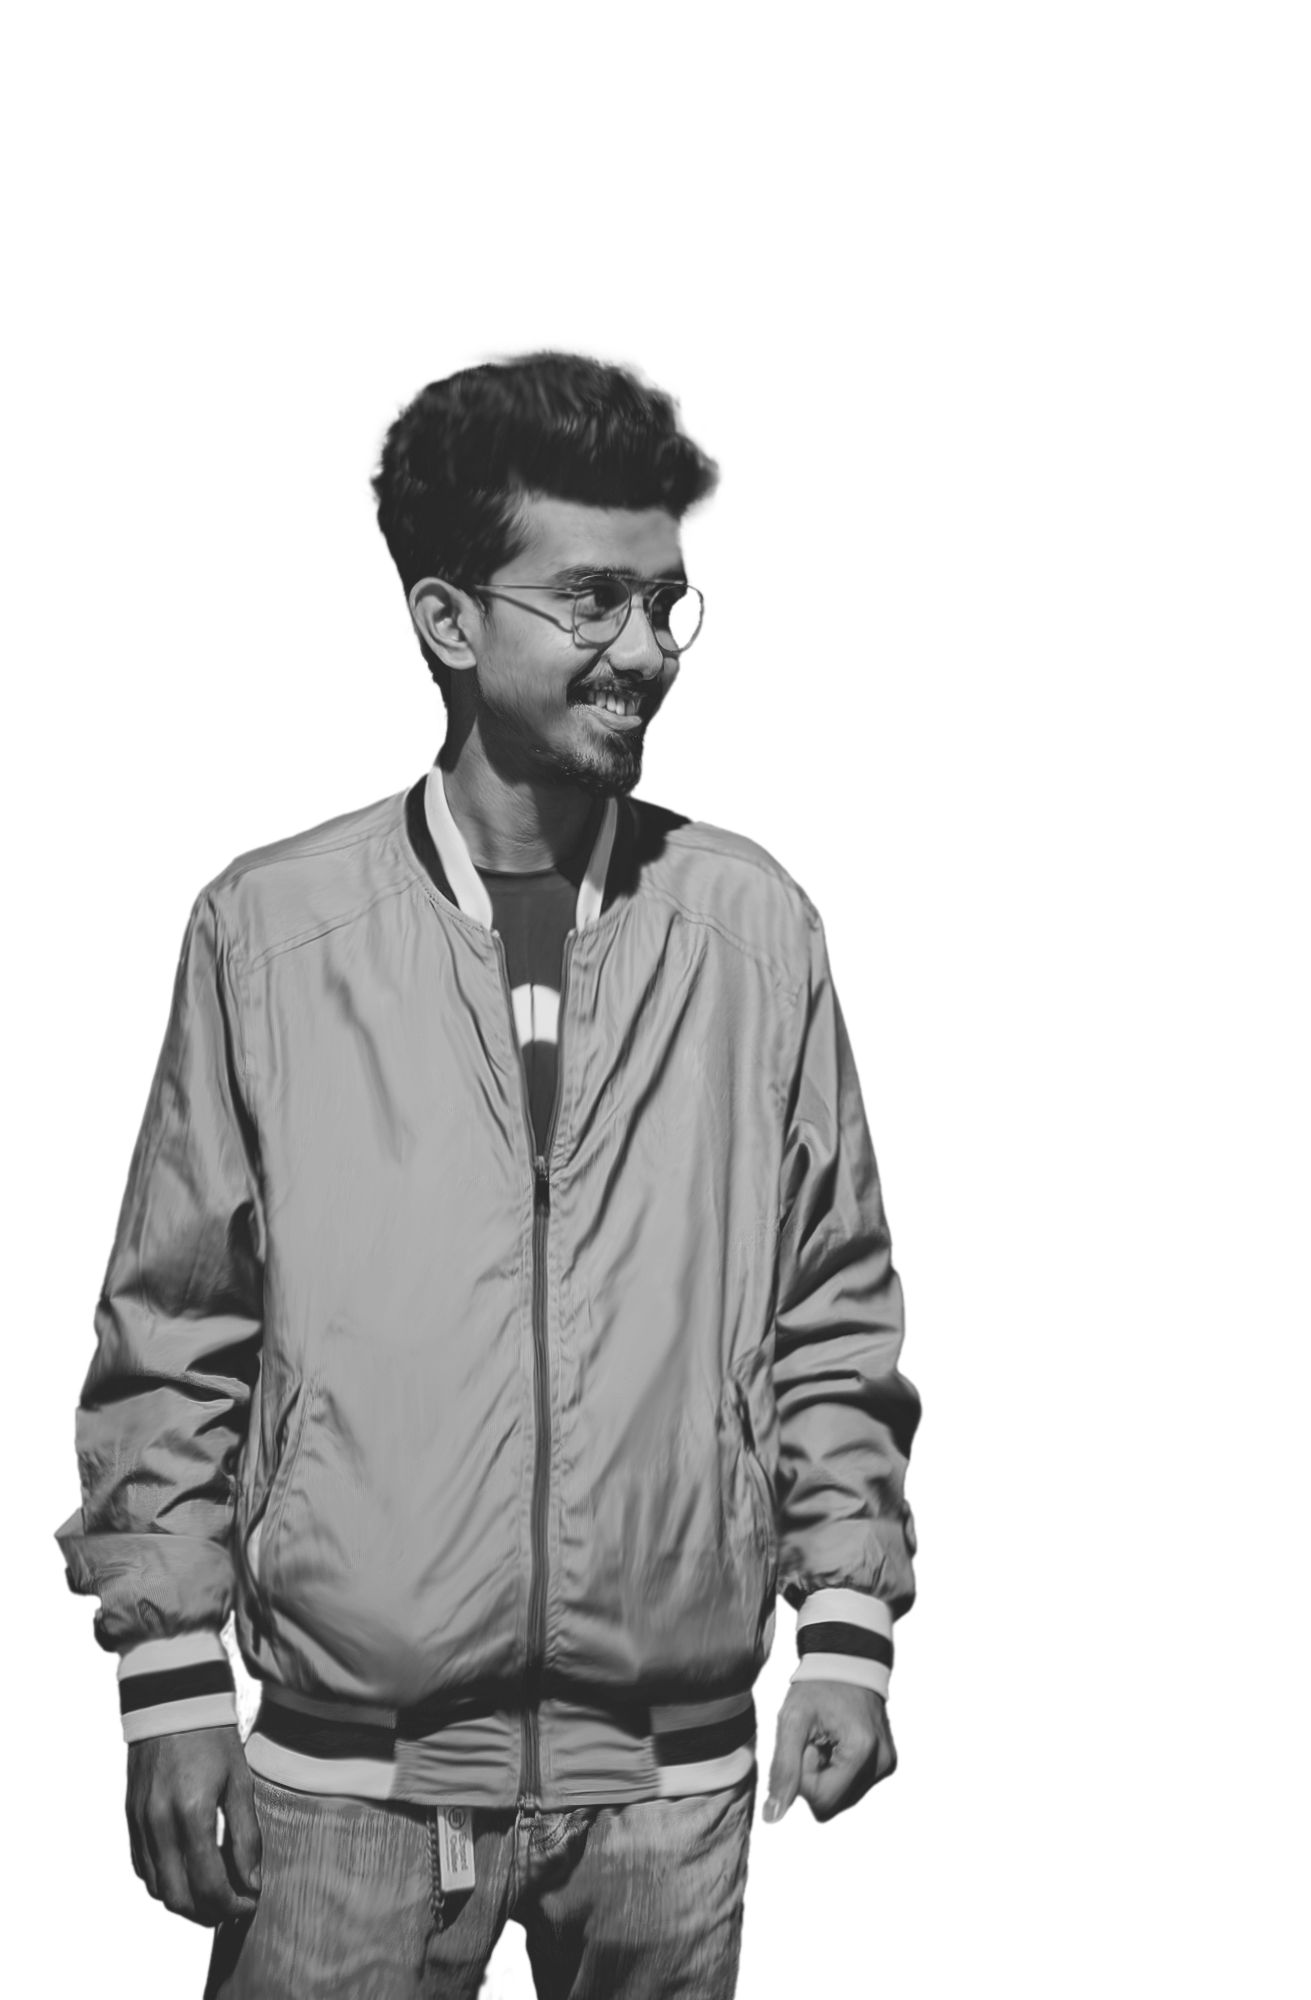
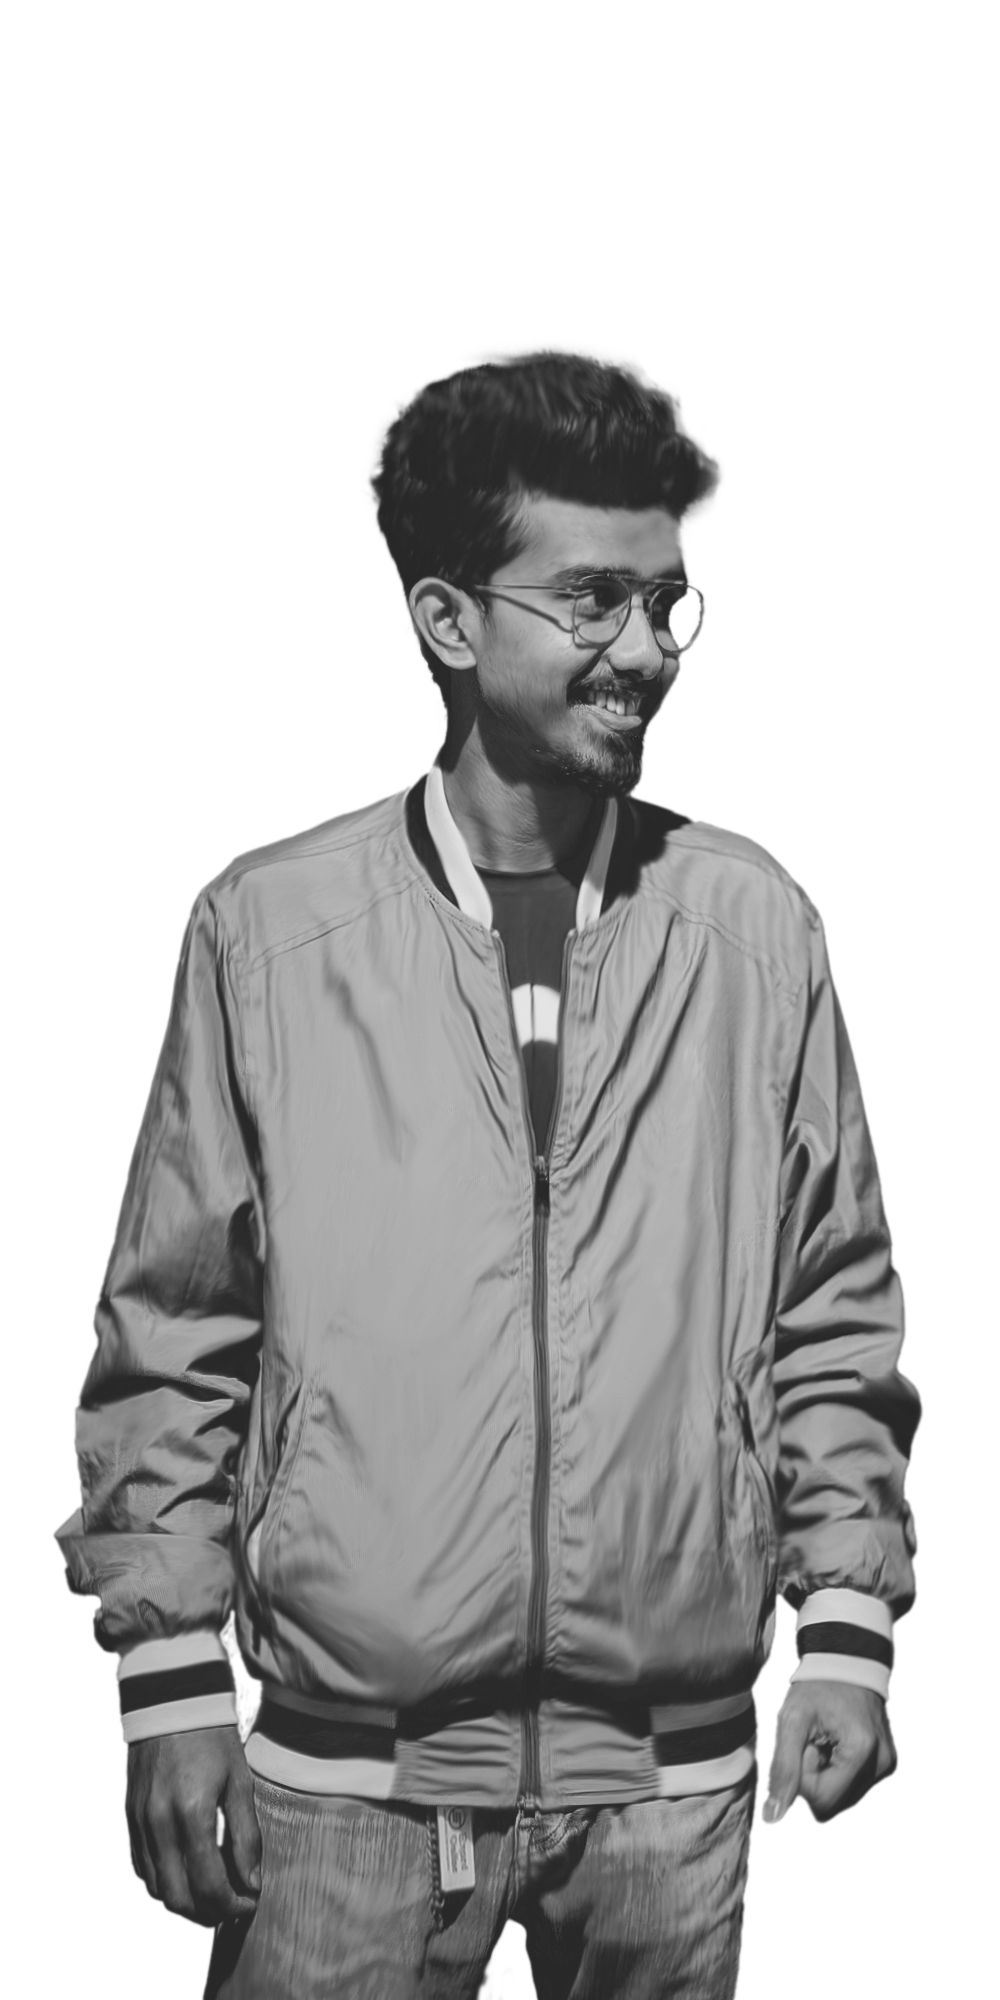
add

diff --git a/src/components/PortfolioSection.tsx b/src/components/PortfolioSection.tsx
@@ -1,12 +1,20 @@
 import { motion, useInView } from "framer-motion";
 import { useRef, useState } from "react";
-import { Play, ExternalLink } from "lucide-react";
+import { Play } from "lucide-react";
+
 import thumbnail1 from "../assets/3945.jpg";
 import thumbnail2 from "../assets/3947.jpg";
 import thumbnail3 from "../assets/Untitled-1.jpg";
 import thumbnail4 from "../assets/Thumbnail 2.jpg";
 import thumbnail5 from "../assets/394.jpg";
 import thumbnail6 from "../assets/39.jpg";
+
+import video1 from "../assets/video/Highlight_1.mp4";
+// import video2 from "../assets/video/Highlight_1.mp4";
+import video2 from "../assets/video/high-energy-fitness-racing-promo-video.mp4.mp4";
+import video3 from "../assets/video/WIN OVER A NARCISSIST.mp4";
+import video4 from "../assets/video/Lyric Video 4.mp4";
+
 const thumbnails = [
   { title: "Gaming Thumbnail", category: "YouTube", img: thumbnail1 },
   { title: "Tech Review", category: "YouTube", img: thumbnail2 },
@@ -17,121 +25,142 @@ const thumbnails = [
 ];
 
 const videoEdits = [
-  // { title: "Brand Commercial", duration: "0:30" video:},
-  { title: "Music Video Edit", duration: "3:45" },
-  { title: "Product Launch", duration: "1:20" },
-  { title: "Social Media Reel", duration: "0:15" },
+  { title: "Brand Commercial", duration: "6:05", video: video1 },
+  { title: "Music Video Edit", duration: "1:15", video: video2 },
+  { title: "Product Launch", duration: "0:51", video: video3 },
+  { title: "Social Media Reel", duration: "3:24 ", video: video4 },
 ];
 
 const PortfolioSection = () => {
   const ref = useRef(null);
   const inView = useInView(ref, { once: true, margin: "-100px" });
+
   const [hoveredThumb, setHoveredThumb] = useState<number | null>(null);
   const [selectedImage, setSelectedImage] = useState<string | null>(null);
-
+  const [selectedVideo, setSelectedVideo] = useState<string | null>(null);
 
   return (
     <section id="work" className="pb-32 pt-24 px-4 relative">
-      <div className="absolute top-0 left-1/3 w-[500px] h-[500px] rounded-full opacity-10 blur-[150px]" style={{ background: "hsl(var(--gradient-start))" }} />
+      <div
+        className="absolute top-0 left-1/3 w-[500px] h-[500px] rounded-full opacity-10 blur-[150px]"
+        style={{ background: "hsl(var(--gradient-start))" }}
+      />
 
       <div ref={ref} className="max-w-6xl mx-auto">
-        <motion.div initial={{ opacity: 0, y: 30 }} animate={inView ? { opacity: 1, y: 0 } : {}} className="text-center mb-16">
+
+        {/* HEADER */}
+        <motion.div
+          initial={{ opacity: 0, y: 30 }}
+          animate={inView ? { opacity: 1, y: 0 } : {}}
+          className="text-center mb-16"
+        >
           <h2 className="font-display text-4xl md:text-5xl font-bold mb-4">
-             {/* text */}
-              <span className="gradient-text">Graphic's Design</span>
+            <span className="gradient-text">Graphic's Design</span>
           </h2>
+
           <p className="text-muted-foreground text-lg max-w-2xl mx-auto font-body">
             Thumbnails and video edits that drive engagement
           </p>
         </motion.div>
 
-        {/* Thumbnail showcase - Staggered grid */}
+        {/* THUMBNAILS */}
         <div className="mb-20">
-          <h3 className="font-display text-2xl font-semibold mb-8 gradient-text">Most Popular</h3>
+          <h3 className="font-display text-2xl font-semibold mb-8 gradient-text">
+            Most Popular
+          </h3>
+
           <div className="grid grid-cols-2 md:grid-cols-3 gap-4">
             {thumbnails.map((thumb, i) => (
-             <motion.div
-  key={thumb.title}
-  initial={{ opacity: 0, y: 30, rotate: -2 }}
-  animate={inView ? { opacity: 1, y: 0, rotate: 0 } : {}}
-  transition={{ delay: i * 0.1, type: "spring", stiffness: 100 }}
-  whileHover={{ scale: 1.05, rotate: 1, zIndex: 10 }}
-  onHoverStart={() => setHoveredThumb(i)}
-  onHoverEnd={() => setHoveredThumb(null)}
-  onClick={() => setSelectedImage(thumb.img)}
-  className="relative aspect-video glass-card overflow-hidden rounded-xl cursor-pointer group"
->
-  <img
-  src={thumb.img}
-  alt={thumb.title}
-  className=" opacity-[0.80] w-full h-full object-cover transition-transform duration-300 group-hover:scale-110"
-/>
+              <motion.div
+                key={thumb.title}
+                initial={{ opacity: 0, y: 30, rotate: -2 }}
+                animate={inView ? { opacity: 1, y: 0, rotate: 0 } : {}}
+                transition={{ delay: i * 0.1, type: "spring", stiffness: 100 }}
+                whileHover={{ scale: 1.05, rotate: 1 }}
+                onHoverStart={() => setHoveredThumb(i)}
+                onHoverEnd={() => setHoveredThumb(null)}
+                onClick={() => setSelectedImage(thumb.img)}
+                className="relative aspect-video glass-card overflow-hidden rounded-xl cursor-pointer group"
+              >
+                <img
+                  src={thumb.img}
+                  alt={thumb.title}
+                  className="w-full h-full object-cover opacity-80 group-hover:scale-110 transition-transform duration-300"
+                />
 
-<div className="absolute inset-0 opacity-20" />
+                <div className="absolute inset-0 flex items-center justify-center">
+                  <p className="text-lg font-semibold text-transparent group-hover:text-white transition duration-300">
+                    {thumb.category}
+                  </p>
+                </div>
 
-<div className="absolute inset-0 flex items-center justify-center">
-  <div className="text-center">
-    {/* <p className="font-display text-xl font-semibold text-transparent group-hover:text-[#6e47caaa] transition-colors duration-300">
-      {thumb.title}
-    </p> */}
-
-    <p className="text-lg font-semibold text-transparent group-hover:text-white mt-1 transition-colors duration-300">
-      {thumb.category}
-    </p>
-  </div>
-</div>
-
-               
-  <motion.div
-    className="absolute inset-0 bg-black/60 flex items-center justify-center"
-    initial={{ opacity: 0 }}
-    animate={{ opacity: hoveredThumb === i ? 1 : 0 }}
-  >
-    {/* <ExternalLink className="w-8 h-8 text-white" /> */}
-  </motion.div>
-</motion.div>
+                <motion.div
+                  className="absolute inset-0 bg-black/60"
+                  initial={{ opacity: 0 }}
+                  animate={{ opacity: hoveredThumb === i ? 1 : 0 }}
+                />
+              </motion.div>
             ))}
           </div>
         </div>
 
-        <motion.div initial={{ opacity: 0, y: 30 }} animate={inView ? { opacity: 1, y: 0 } : {}} className="text-center mb-16">
-          <h2 className="font-display text-4xl md:text-5xl font-bold mb-4 gradient-text underline ">
-             {/* text */}
-              <span className="gradient-text">VIDEO'S</span>
+        {/* VIDEO HEADER */}
+        <motion.div
+          initial={{ opacity: 0, y: 30 }}
+          animate={inView ? { opacity: 1, y: 0 } : {}}
+          className="text-center mb-16"
+        >
+          <h2 className="font-display text-4xl md:text-5xl font-bold gradient-text underline">
+            VIDEO'S
           </h2>
-          {/* <p className="text-muted-foreground text-lg max-w-2xl mx-auto font-body">
-            Thumbnails and video edits that drive engagement
-          </p> */}
         </motion.div>
 
-        {/* Video editing showcase - Horizontal scroll cards */}
+        {/* VIDEO CARDS */}
         <div>
-          <h3 className="font-display text-2xl font-semibold mt-28 mb-8 gradient-text">Video Editing</h3>
+          <h3 className="font-display text-2xl font-semibold mt-20 mb-8 gradient-text">
+            Video Editing
+          </h3>
+
           <div className="grid md:grid-cols-2 gap-6">
             {videoEdits.map((video, i) => (
               <motion.div
                 key={video.title}
                 initial={{ opacity: 0, x: i % 2 === 0 ? -40 : 40 }}
                 animate={inView ? { opacity: 1, x: 0 } : {}}
-                transition={{ delay: 0.3 + i * 0.15, type: "spring" }}
-                whileHover={{ scale: 1.02 }}
-                className="relative aspect-video glass-card gradient-border overflow-hidden rounded-xl cursor-pointer group"
+                transition={{ delay: 0.3 + i * 0.15 }}
+                whileHover={{ scale: 1.03 }}
+                onClick={() => setSelectedVideo(video.video)}
+                className="relative aspect-video overflow-hidden rounded-xl cursor-pointer group"
               >
-                <div className="absolute inset-0 bg-gradient-to-br from-muted to-background" />
+                {/* VIDEO PREVIEW */}
+                <video
+                  src={video.video}
+                  muted
+                  loop
+                  playsInline
+                  className="absolute inset-0 w-full h-full object-cover"
+                  onMouseEnter={(e) => e.currentTarget.play()}
+                  onMouseLeave={(e) => {
+                    e.currentTarget.pause();
+                    e.currentTarget.currentTime = 0;
+                  }}
+                />
+
+                {/* OVERLAY */}
+                <div className="absolute inset-0 bg-black/40"></div>
+
+                {/* PLAY BUTTON */}
                 <div className="absolute inset-0 flex items-center justify-center">
-                  <motion.div
-                    className="w-16 h-16 rounded-full gradient-bg flex items-center justify-center gradient-glow"
-                    whileHover={{ scale: 1.2 }}
-                    transition={{ type: "spring", stiffness: 300 }}
-                  >
-                    <Play className="w-6 h-6 text-primary-foreground ml-1" />
-                  </motion.div>
-                </div>
-                <div className="absolute bottom-4 left-4 right-4 flex justify-between items-end">
-                  <div>
-                    <p className="font-display font-semibold text-foreground">{video.title}</p>
+                  <div className="w-16 h-16 rounded-full bg-white/20 backdrop-blur flex items-center justify-center">
+                    <Play className="w-6 h-6 text-white ml-1" />
                   </div>
-                  <span className="text-xs text-muted-foreground bg-background/60 px-2 py-1 rounded-full backdrop-blur-sm">
+                </div>
+
+                {/* TITLE */}
+                <div className="absolute bottom-4 left-4 right-4 flex justify-between items-end">
+                  <p className="font-semibold text-white">{video.title}</p>
+
+                  <span className="text-xs bg-black/60 px-2 py-1 rounded text-white">
                     {video.duration}
                   </span>
                 </div>
@@ -140,19 +169,35 @@ const PortfolioSection = () => {
           </div>
         </div>
       </div>
-      {/* modal */}
-      {selectedImage && (
-  <div
-    className="fixed inset-0 bg-black/80 flex items-center justify-center z-50"
-    onClick={() => setSelectedImage(null)}
-  >
-    <img
-      src={selectedImage}
-      className="max-w-[90%] max-h-[90%] rounded-xl"
-    />
-  </div>
-)}
 
+      {/* IMAGE MODAL */}
+      {selectedImage && (
+        <div
+          className="fixed inset-0 bg-black/90 flex items-center justify-center z-50"
+          onClick={() => setSelectedImage(null)}
+        >
+          <img
+            src={selectedImage}
+            className="max-w-[90%] max-h-[90%] rounded-xl"
+          />
+        </div>
+      )}
+
+      {/* VIDEO MODAL */}
+      {selectedVideo && (
+        <div
+          className="fixed inset-0 bg-black/90 flex items-center justify-center z-50"
+          onClick={() => setSelectedVideo(null)}
+        >
+          <video
+            src={selectedVideo}
+            controls
+            autoPlay
+            className="max-w-[90%] max-h-[90%] rounded-xl"
+            onClick={(e) => e.stopPropagation()}
+          />
+        </div>
+      )}
     </section>
   );
 };

diff --git a/src/components/SoftwareSection.tsx b/src/components/SoftwareSection.tsx
@@ -7,6 +7,11 @@ const software = [
   { name: "Premiere Pro", color: "9999FF" },
   { name: "Adobe", color: "B54B83"},
   { name: "Figma", color: "A259FF" },
+  { name: "Photoshop", color: "31A8FF" },
+  { name: "Illustrator", color: "FF9A00" },
+  { name: "Premiere Pro", color: "9999FF" },
+  { name: "Adobe", color: "B54B83"},
+  { name: "Figma", color: "A259FF" },
 ];
 
 const SoftwareSection = () => {
@@ -24,7 +29,7 @@ const SoftwareSection = () => {
         <div className="absolute left-0 top-0 bottom-0 w-32 bg-gradient-to-r from-background to-transparent z-10" />
         <div className="absolute right-0 top-0 bottom-0 w-32 bg-gradient-to-l from-background to-transparent z-10" />
 
-        <div className="flex w-max" style={{ animation: "slide-logos 20s linear infinite " }}>
+        <div className="flex w-max" style={{ animation: "slide-logos 20s linear infinite" }}>
           {duplicated.map((sw, i) => (
             <div
               key={`${sw.name}-${i}`}

diff --git a/src/components/AboutSection.tsx b/src/components/AboutSection.tsx
@@ -19,9 +19,16 @@ const AboutSection = () => {
           <div className="relative aspect-square rounded-2xl overflow-hidden gradient-border">
             <div className="w-full h-full bg-muted flex items-center justify-center">
               <div className="text-center p-8">
-                <div className="w-32 h-32 mx-auto rounded-full gradient-bg opacity-50 animate-float" />
-                <img src={hero} alt="Profile Photo" />
-              </div>
+                
+
+    {/* Profile Image */}
+    <img
+      src={hero}
+      alt="Profile Photo"
+      className="w-[80%] ml-12"
+    />
+
+  </div>
             </div>
           </div>
         </motion.div>
